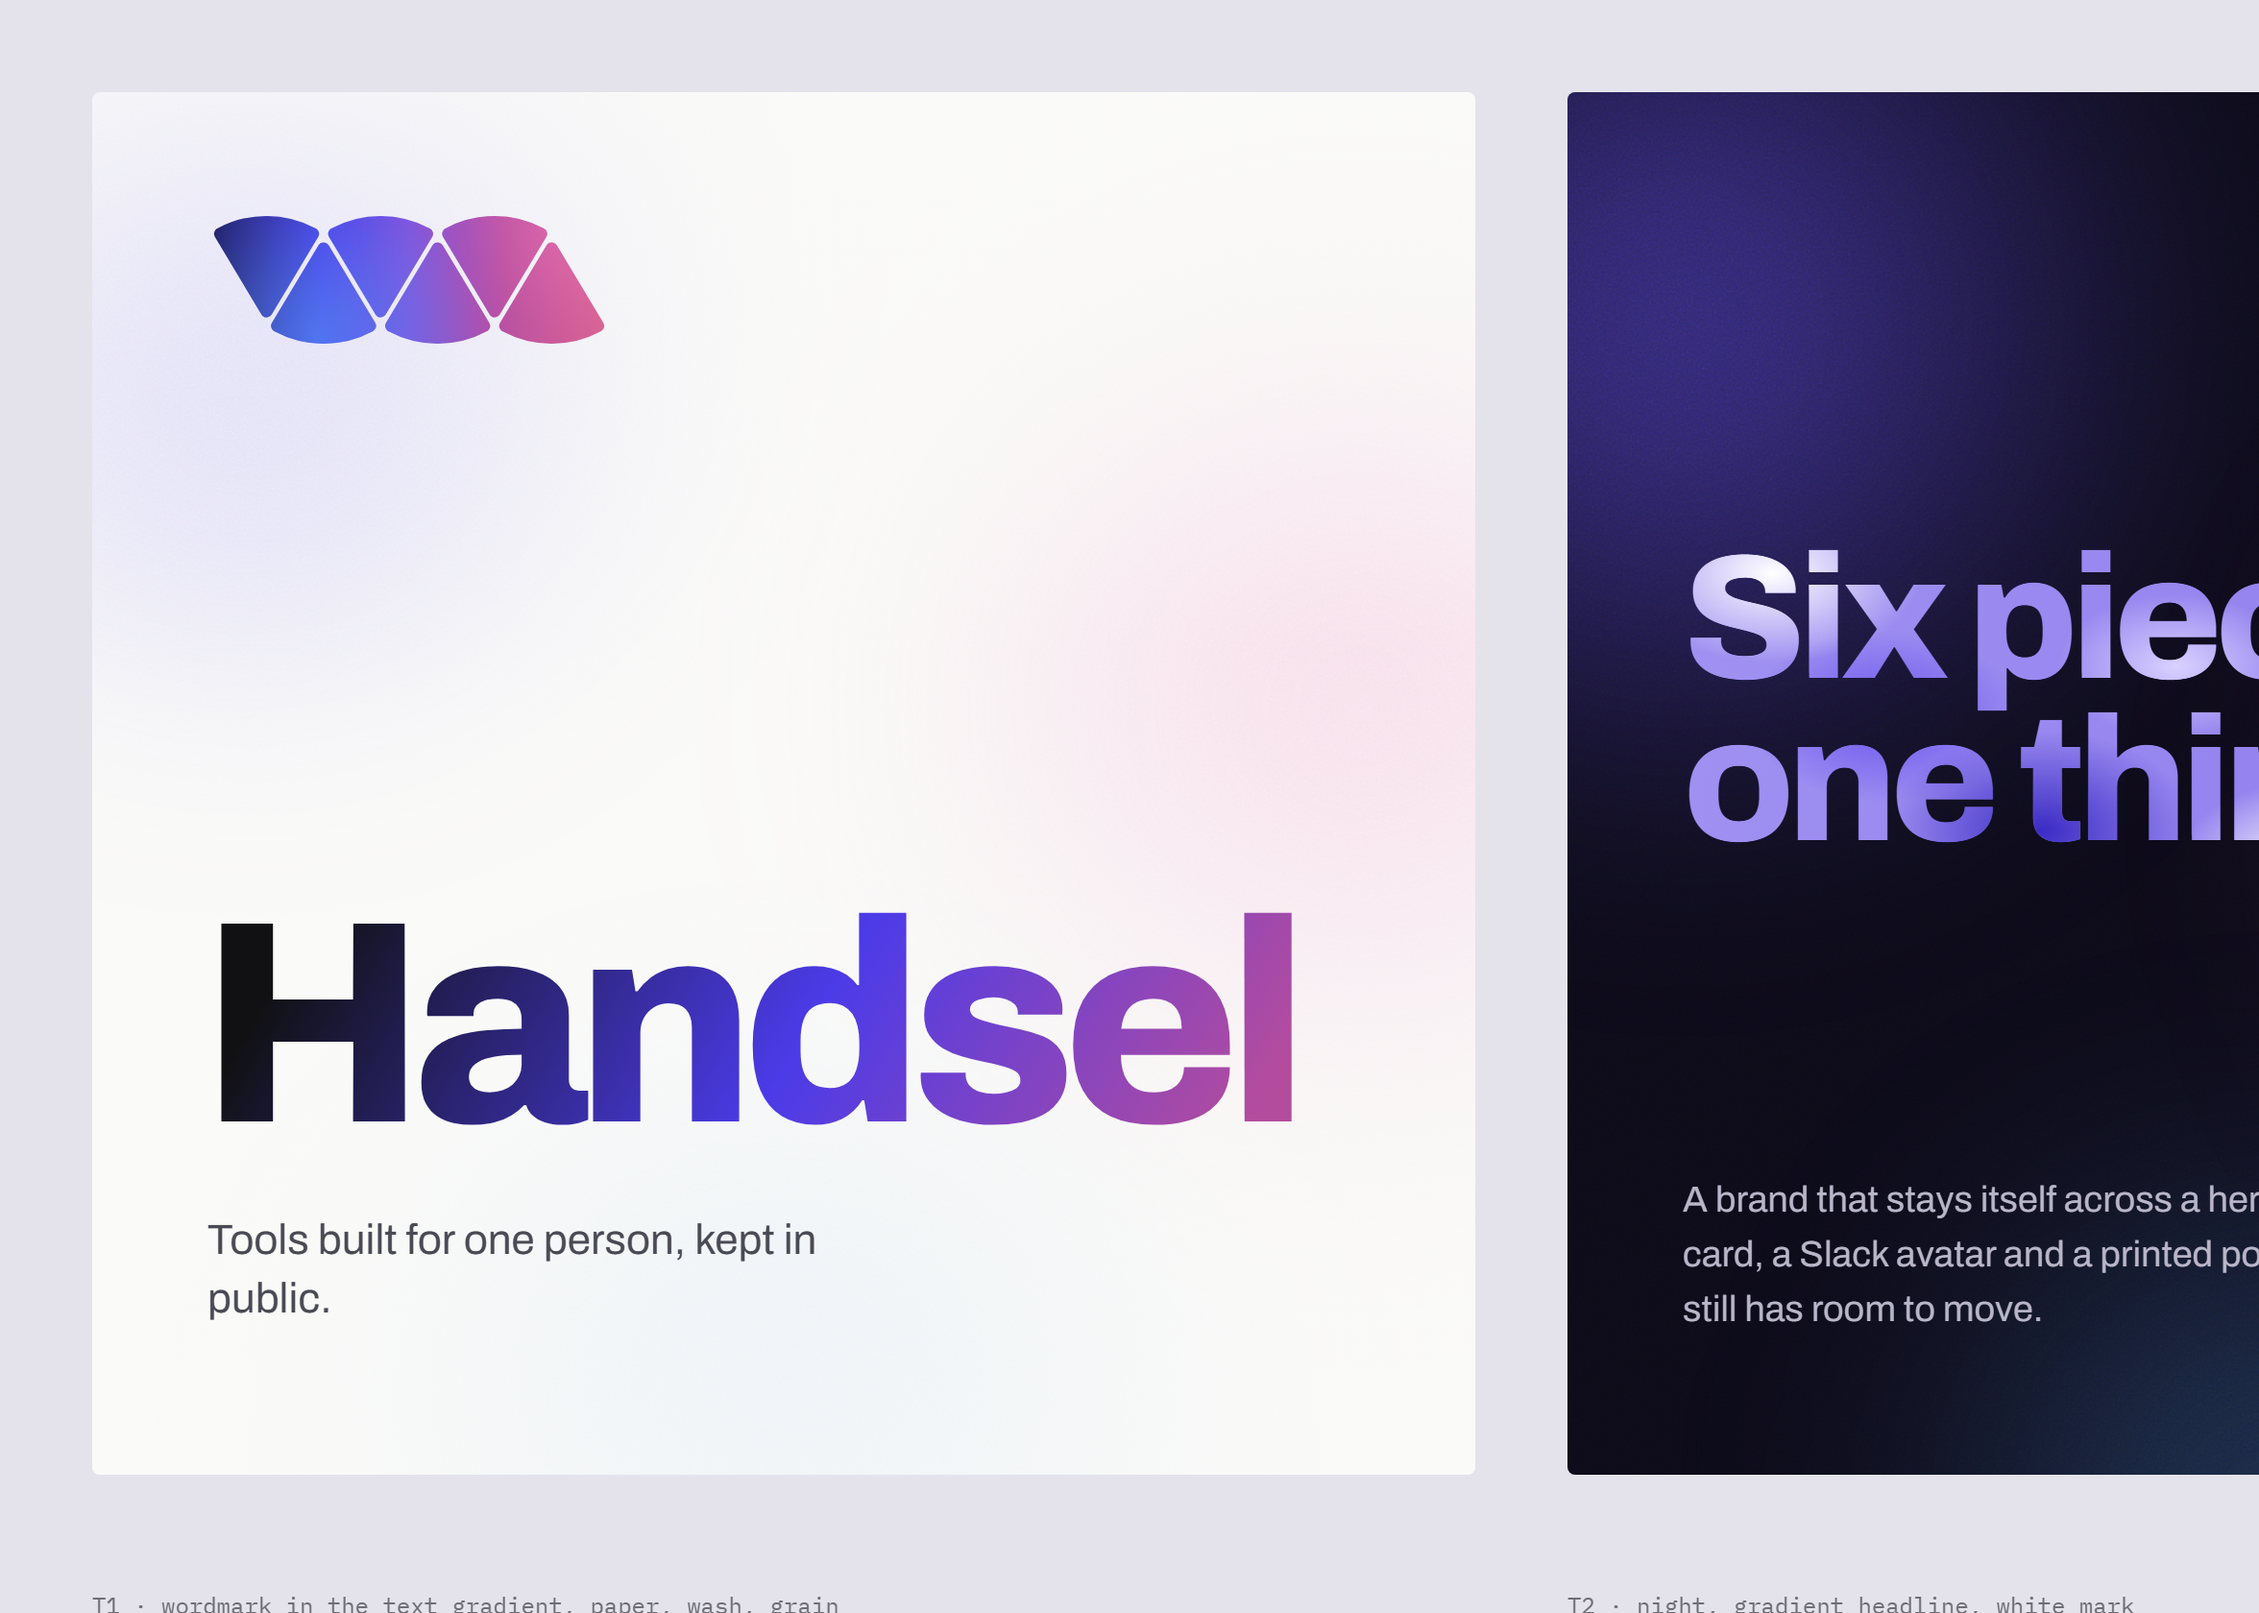
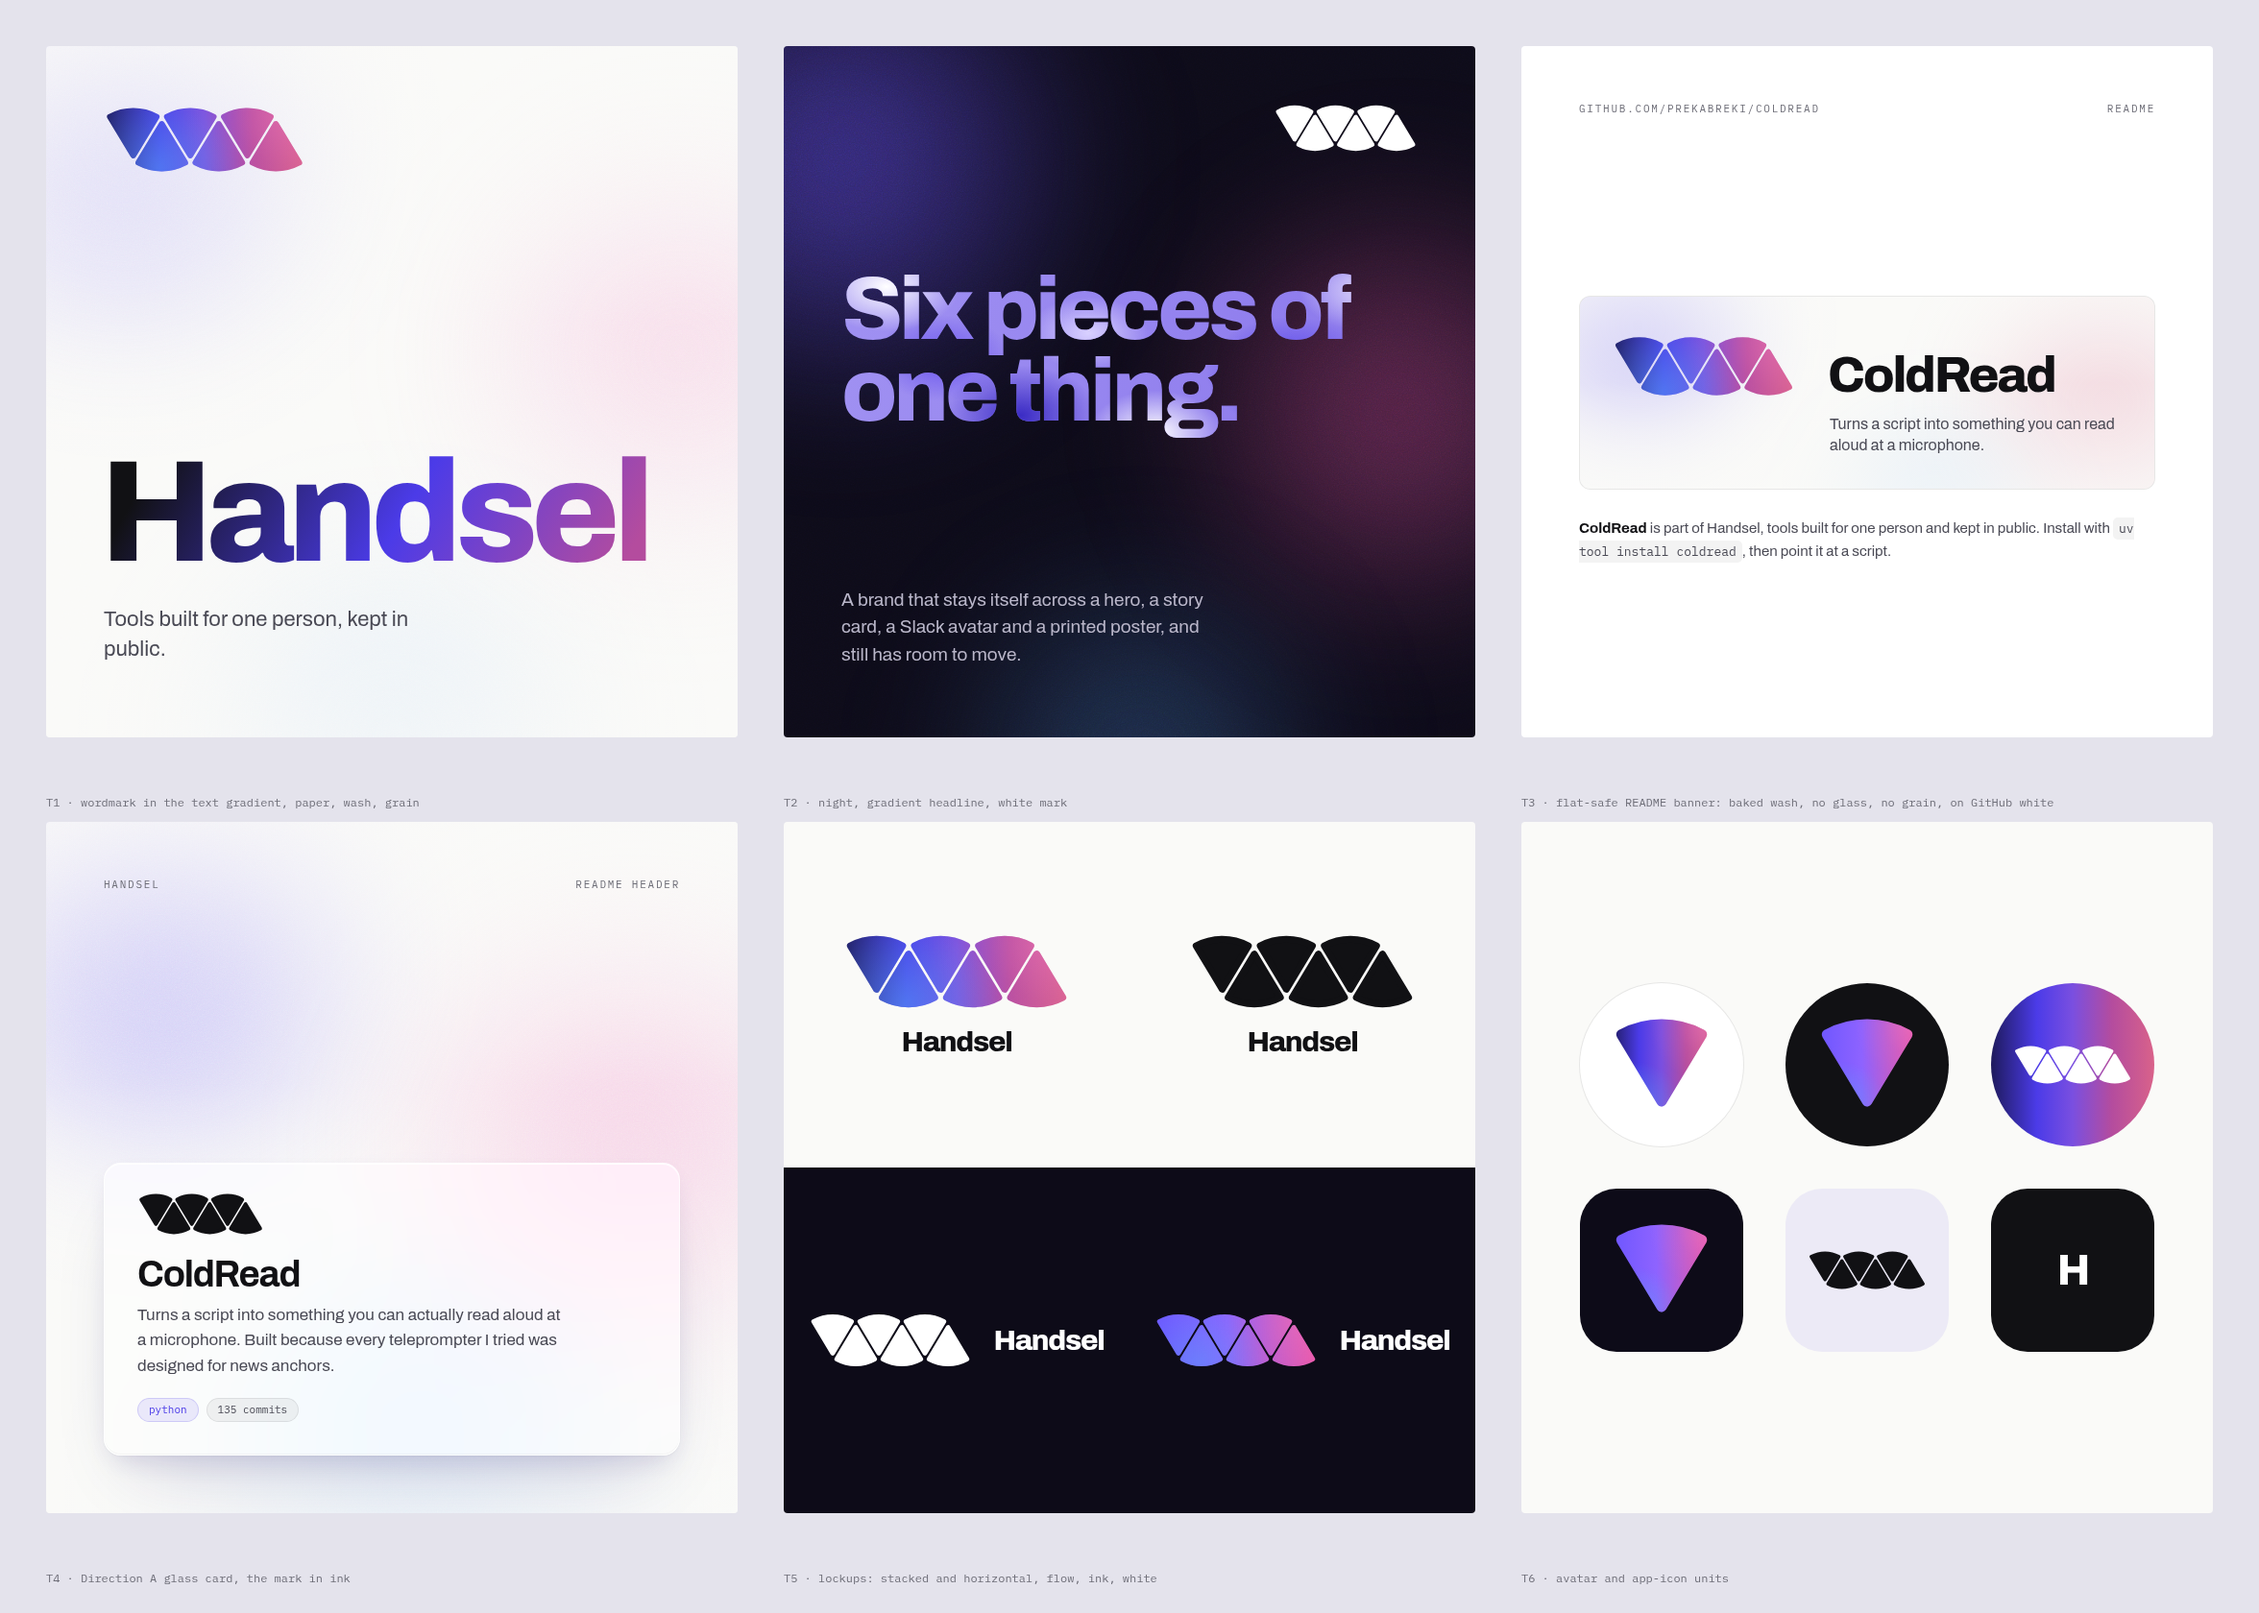
lookdev: takes_03 re-rendered at 1:1, and a renderer that refuses the wrong size (#15)
The sheet's layout was right all along. The capture was made at half the
window with a device scale factor of 2, which produces a PNG of the right
pixel size holding one quarter of the sheet: T1 and half of T2. Nothing
errored. lookdev/render.py pins the window to the sheet's own CSS size and the
scale factor to 1, serves the repo over loopback, and deletes any PNG whose
size is not the size it asked for. All six tiles now crop to a single take and
pass the gate at 0.99 or better, mark found in each.

Closes #15

diff --git a/lookdev/render.py b/lookdev/render.py
@@ -1,0 +1,79 @@
+"""Render a lookdev HTML sheet to the PNG beside it, at CSS pixel size 1:1.
+
+    python lookdev/render.py lookdev/takes/takes.html lookdev/takes/takes_03.png
+
+The takes sheet lays six 720 px tiles on a 3x2 grid, 2352 by 1680 CSS pixels.
+takes_03.png was once captured at half that window with a device scale factor
+of 2, which yields a file of the right pixel size holding a quarter of the
+sheet, one and a half takes, and nothing errors (#15). So this pins the
+window to the sheet's own size and the scale factor to 1, serves the repo over
+loopback (a file:// screenshot hangs on this box), and refuses to write a PNG
+whose size is not the size it asked for.
+"""
+from __future__ import annotations
+
+import argparse
+import http.server
+import os
+import shutil
+import socketserver
+import subprocess
+import sys
+import threading
+
+ROOT = os.path.dirname(os.path.dirname(os.path.abspath(__file__)))
+CHROMES = ("/opt/google/chrome/chrome", "google-chrome", "chromium", "brave-browser")
+
+
+def chrome() -> str:
+    for c in CHROMES:
+        p = c if os.path.isabs(c) else shutil.which(c)
+        if p and os.path.exists(p):
+            return p
+    raise SystemExit("no Chrome found; install one or set --chrome")
+
+
+def serve(root: str):
+    handler = type("Quiet", (http.server.SimpleHTTPRequestHandler,),
+                   {"log_message": lambda *a, **k: None})
+    httpd = socketserver.TCPServer(("127.0.0.1", 0), lambda *a, **k: handler(*a, directory=root, **k))
+    threading.Thread(target=httpd.serve_forever, daemon=True).start()
+    return httpd, httpd.server_address[1]
+
+
+def render(html: str, out: str, width: int, height: int, binary: str, wait_ms: int) -> None:
+    from PIL import Image
+    html = os.path.abspath(html)
+    out = os.path.abspath(out)
+    rel = os.path.relpath(html, ROOT).replace(os.sep, "/")
+    httpd, port = serve(ROOT)
+    try:
+        cmd = [binary, "--headless=new", "--hide-scrollbars", "--force-device-scale-factor=1",
+               f"--window-size={width},{height}", f"--virtual-time-budget={wait_ms}",
+               f"--screenshot={out}", f"http://127.0.0.1:{port}/{rel}"]
+        subprocess.run(cmd, check=True, stdout=subprocess.DEVNULL, stderr=subprocess.DEVNULL,
+                       timeout=120)
+    finally:
+        httpd.shutdown()
+    with Image.open(out) as im:
+        if im.size != (width, height):
+            os.remove(out)
+            raise SystemExit(f"rendered {im.size}, asked for {(width, height)}; not keeping it")
+    print(f"wrote {os.path.relpath(out, ROOT)} at {width}x{height}")
+
+
+def main(argv=None) -> int:
+    p = argparse.ArgumentParser(prog="python lookdev/render.py")
+    p.add_argument("html")
+    p.add_argument("out")
+    p.add_argument("--size", default="2352x1680", help="CSS pixels, WxH; the takes sheet is 2352x1680")
+    p.add_argument("--chrome", default=None)
+    p.add_argument("--wait-ms", type=int, default=4000, help="virtual time for fonts to arrive")
+    a = p.parse_args(argv)
+    w, h = (int(v) for v in a.size.lower().split("x"))
+    render(a.html, a.out, w, h, a.chrome or chrome(), a.wait_ms)
+    return 0
+
+
+if __name__ == "__main__":
+    sys.exit(main())
